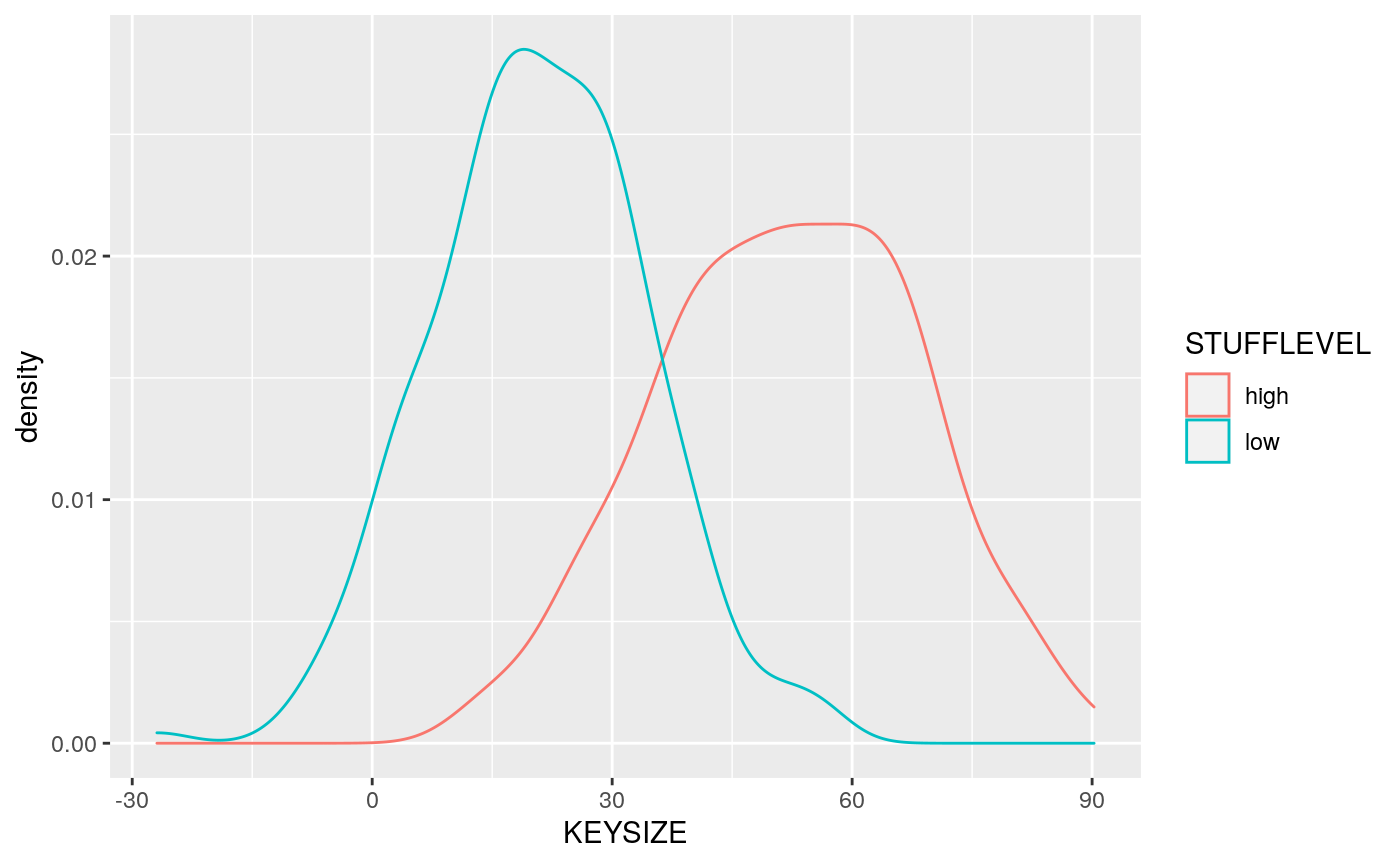
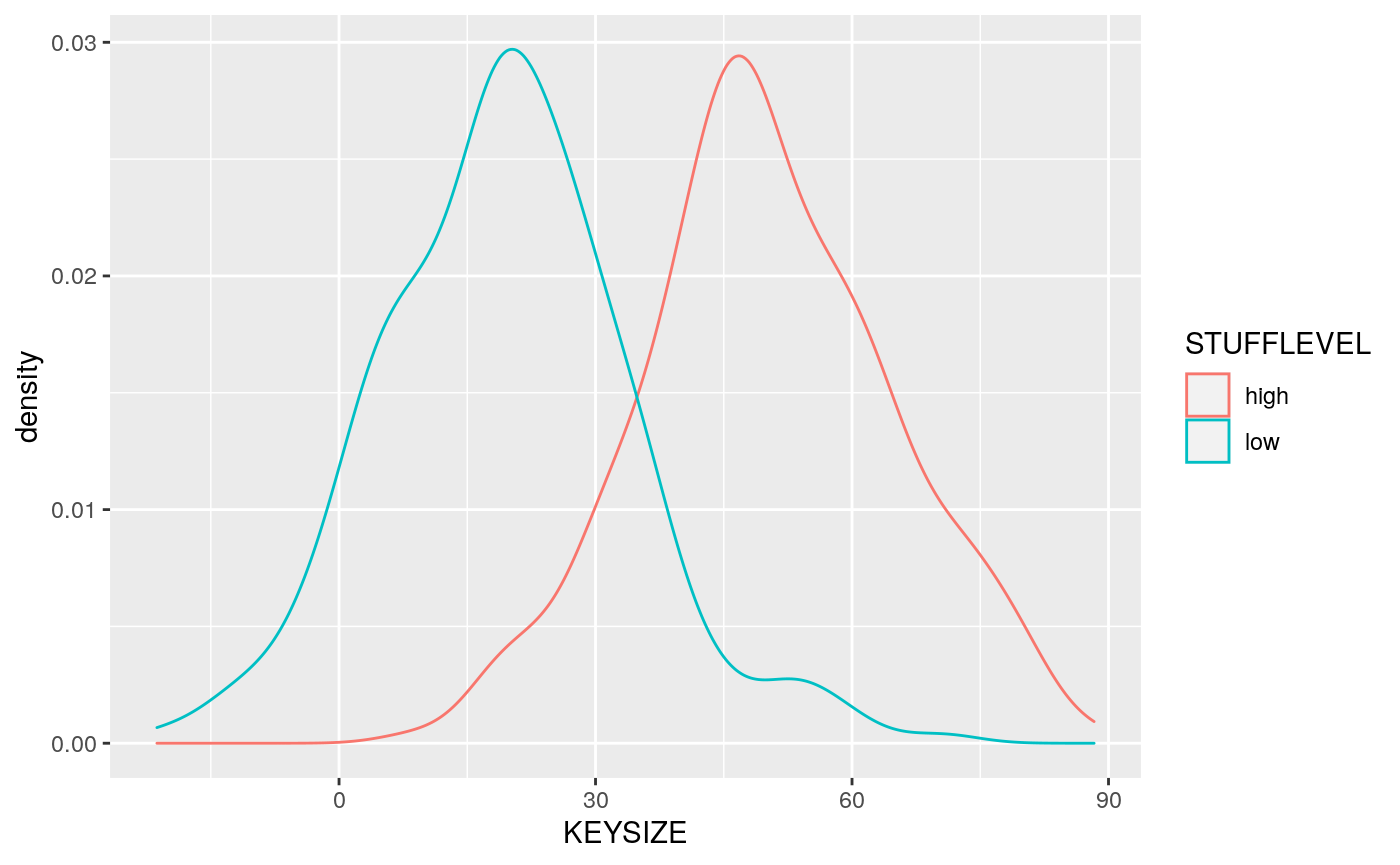
Built site for respectables: 0.0.3@b0c1d1c

diff --git a/articles/creating_synth_relational_data.html b/articles/creating_synth_relational_data.html
@@ -82,7 +82,7 @@
       <h1 data-toc-skip>Specifying, Simulating and Synthesizing Relational Data in R</h1>
                         <h4 class="author">Gabriel Becker</h4>
             
-            <h4 class="date">2021-07-05</h4>
+            <h4 class="date">2021-07-06</h4>
       
       
       <div class="hidden name"><code>creating_synth_relational_data.Rmd</code></div>
@@ -196,13 +196,13 @@
 
 <span class="no">sillydata</span> <span class="kw">&lt;-</span> <span class="fu"><a href="../reference/gen_table_data.html">gen_table_data</a></span>(<span class="kw">N</span> <span class="kw">=</span> <span class="fl">500</span>, <span class="kw">recipe</span> <span class="kw">=</span> <span class="no">recipe</span>)
 <span class="fu"><a href="https://rdrr.io/r/utils/head.html">head</a></span>(<span class="no">sillydata</span>)</pre></body></html></div>
-<pre><code>##      ID STUFFLEVEL  KEYSIZE           ACCT_OPEN         ACCT_CLOSED
-## 1 ID001       high 49.58828 2017-08-01 02:38:45 2017-09-28 00:23:44
-## 2 ID002       high 63.36925 2015-12-31 13:26:58                &lt;NA&gt;
-## 3 ID003       high 47.10673 2018-08-20 20:31:12                &lt;NA&gt;
-## 4 ID004        low 14.90383 2017-11-02 06:16:14 2017-12-09 04:28:30
-## 5 ID005       high 54.62871 2015-08-02 14:51:27 2020-11-28 16:24:59
-## 6 ID006        low 22.10649 2015-02-11 13:03:15                &lt;NA&gt;</code></pre>
+<pre><code>##      ID STUFFLEVEL   KEYSIZE           ACCT_OPEN         ACCT_CLOSED
+## 1 ID001       high 64.991940 2015-09-12 02:35:46 2020-07-30 23:26:19
+## 2 ID002        low 25.648871 2015-01-27 06:38:46                &lt;NA&gt;
+## 3 ID003        low  6.232017 2017-06-18 14:57:36                &lt;NA&gt;
+## 4 ID004       high 31.706414 2019-10-23 02:54:43                &lt;NA&gt;
+## 5 ID005       high 57.845460 2019-10-14 01:02:13                &lt;NA&gt;
+## 6 ID006       high 51.010555 2017-05-10 21:19:10                &lt;NA&gt;</code></pre>
 <p>We can see that the conditional distribution worked by plotting the data densities for each <code>STUFFLEVEL</code> value</p>
 <div class="sourceCode" id="cb6"><html><body><pre class="r"><span class="fu"><a href="https://rdrr.io/r/base/message.html">suppressPackageStartupMessages</a></span>(<span class="fu"><a href="https://rdrr.io/r/base/library.html">library</a></span>(<span class="no">ggplot2</span>))
 
@@ -296,12 +296,12 @@
 <span class="no">buysdf</span> <span class="kw">&lt;-</span> <span class="fu"><a href="../reference/gen_reljoin_table.html">gen_reljoin_table</a></span>(<span class="no">sjrecipe</span>, <span class="no">buys_rec</span>, <span class="kw">db</span> <span class="kw">=</span> <span class="fu"><a href="https://rdrr.io/r/base/list.html">list</a></span>(<span class="kw">sillydata</span> <span class="kw">=</span> <span class="no">sillydata</span>))
 <span class="fu"><a href="https://rdrr.io/r/utils/head.html">head</a></span>(<span class="no">buysdf</span>)</pre></body></html></div>
 <pre><code>##      ID BUYID             BUYDATE PRODUCTID         DESC
-## 1 ID001   166 2017-08-21 11:31:02     PROD3     Mcguffin
-## 2 ID002   381 2018-12-21 04:12:34     PROD5     Thingbat
-## 5 ID003   384 2018-12-24 07:55:28     PROD6  Thingbat v2
-## 3 ID003   415 2019-02-18 10:27:26     PROD4      Spanner
-## 4 ID003   616 2019-12-11 06:40:01     PROD1       Doodad
-## 6 ID003  1055 2021-01-24 12:52:32     PROD2 HLight Fluid</code></pre>
+## 2 ID001    57 2016-09-01 18:19:16     PROD2 HLight Fluid
+## 3 ID001    94 2017-02-24 08:42:14     PROD5     Thingbat
+## 1 ID001    96 2017-03-10 08:56:03     PROD1       Doodad
+## 5 ID002    36 2016-04-12 16:05:42     PROD4      Spanner
+## 4 ID002   352 2018-12-25 21:10:35     PROD6  Thingbat v2
+## 7 ID003   142 2017-09-01 22:29:38     PROD2 HLight Fluid</code></pre>
 </div>
 </div>
   </div>

diff --git a/reference/lookup_fun.html b/reference/lookup_fun.html
@@ -152,16 +152,16 @@ it directly.</p>
     <h2 class="hasAnchor" id="examples"><a class="anchor" href="#examples"></a>Examples</h2>
     <pre class="examples"><div class='input'><span class='fu'>lookup_fun</span>(<span class='no'>rnorm</span>)</div><div class='output co'>#&gt; function (n, mean = 0, sd = 1) 
 #&gt; .Call(C_rnorm, n, mean, sd)
-#&gt; &lt;bytecode: 0x55b6ec0dba30&gt;
+#&gt; &lt;bytecode: 0x564218acefd8&gt;
 #&gt; &lt;environment: namespace:stats&gt;</div><div class='input'><span class='fu'>lookup_fun</span>(<span class='st'>"rnorm"</span>)</div><div class='output co'>#&gt; function (n, mean = 0, sd = 1) 
 #&gt; .Call(C_rnorm, n, mean, sd)
-#&gt; &lt;bytecode: 0x55b6ec0dba30&gt;
+#&gt; &lt;bytecode: 0x564218acefd8&gt;
 #&gt; &lt;environment: namespace:stats&gt;</div><div class='input'><span class='fu'>lookup_fun</span>(<span class='st'>"stats::rnorm"</span>)</div><div class='output co'>#&gt; function (n, mean = 0, sd = 1) 
 #&gt; .Call(C_rnorm, n, mean, sd)
-#&gt; &lt;bytecode: 0x55b6ec0dba30&gt;
+#&gt; &lt;bytecode: 0x564218acefd8&gt;
 #&gt; &lt;environment: namespace:stats&gt;</div><div class='input'><span class='fu'>lookup_fun</span>(<span class='st'>"stats:::rnorm"</span>)</div><div class='output co'>#&gt; function (n, mean = 0, sd = 1) 
 #&gt; .Call(C_rnorm, n, mean, sd)
-#&gt; &lt;bytecode: 0x55b6ec0dba30&gt;
+#&gt; &lt;bytecode: 0x564218acefd8&gt;
 #&gt; &lt;environment: namespace:stats&gt;</div></pre>
   </div>
   <div class="col-md-3 hidden-xs hidden-sm" id="pkgdown-sidebar">

diff --git a/PULL_REQUEST_TEMPLATE.html b/PULL_REQUEST_TEMPLATE.html
@@ -127,8 +127,8 @@
 <h2 class="hasAnchor">
 <a href="#checklist" class="anchor"></a>Checklist</h2>
 <ul>
-<li>[] My pull request is linked to a Github issue</li>
-<li>[] I have reviewed the Contribution guidelines</li>
+<li>[ ] My pull request is linked to a Github issue</li>
+<li>[ ] I have reviewed the Contribution guidelines</li>
 </ul>
 </div>
 <div id="description" class="section level2">
